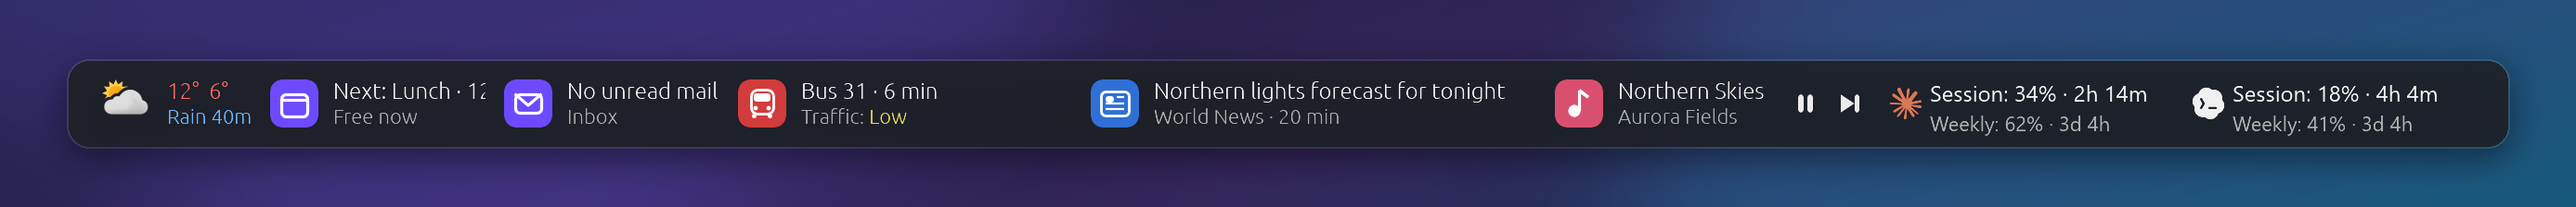
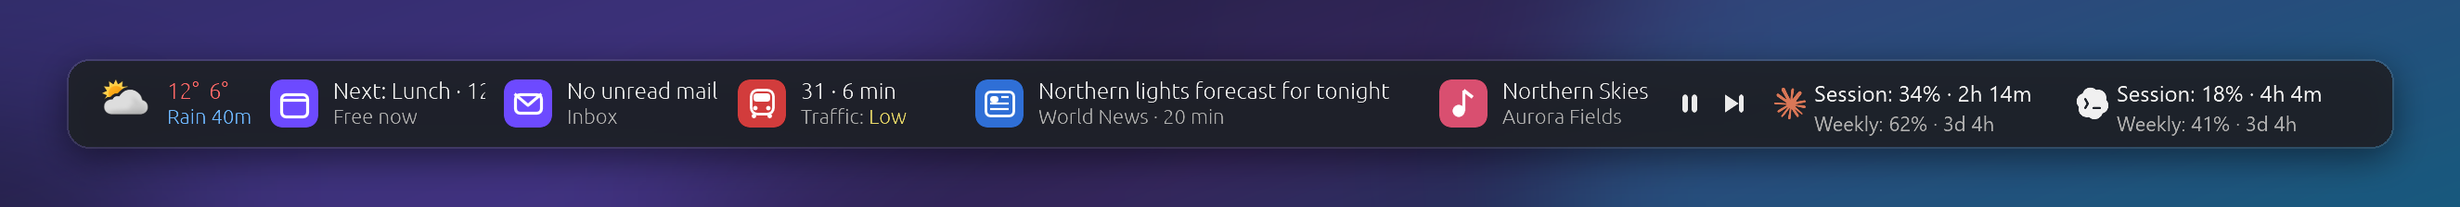
Next Departure: line and countdown only, compact fixed width
The tile shows the mode, so line one reads "31 · 6 min". The pill keeps
one width, room for "Traffic: Unknown"; longer text scrolls. The README
banner is regenerated.

Changed region(s): [[0.0309, 0.375, 0.9589, 0.6562]]

diff --git a/widgets/src/widgets/departures.rs b/widgets/src/widgets/departures.rs
@@ -24,7 +24,7 @@ use serde_json::{json, Value};
 
 use crate::config::{Config, DeparturesCfg, SharedConfig, Stop};
 use crate::icons::IconCache;
-use crate::widgets::calendar::two_lines;
+use crate::widgets::calendar::two_lines_fixed;
 use crate::widgets::{Update, Widget};
 
 const JOURNEY_PLANNER: &str = "https://api.entur.io/journey-planner/v3/graphql";
@@ -667,11 +667,33 @@ pub fn countdown(expected: DateTime<Utc>, now: DateTime<Utc>) -> String {
 }
 
 /// Line 1 for a departure, e.g. `Bus 31 · 6 min +3`.
+/// The pill's text width: room for its usual content, "Traffic: Unknown"
+/// under a two-digit countdown, so the pill keeps one size. Delays, long line
+/// names and notices scroll.
+fn text_width(ui: &egui::Ui) -> f32 {
+    let measure = |text: &str, size: f32| {
+        ui.ctx().fonts_mut(|f| {
+            f.layout_no_wrap(
+                text.into(),
+                egui::FontId::proportional(size),
+                egui::Color32::WHITE,
+            )
+            .size()
+            .x
+        })
+    };
+    measure("Traffic: Unknown", 11.0)
+        .max(measure("31 · 10 min", 12.0))
+        .ceil()
+}
+
+/// Line one of the pill, e.g. "31 · 6 min". The tile beside it shows the
+/// mode, so the mode is named only for a departure without a line number.
 pub fn headline(d: &Departure, now: DateTime<Utc>) -> String {
     let name = if d.line.is_empty() {
         d.mode.label().to_owned()
     } else {
-        format!("{} {}", d.mode.label(), d.line)
+        d.line.clone()
     };
     if d.cancelled {
         return format!("{name} · cancelled");
@@ -849,8 +871,9 @@ fn mode_tile(ui: &mut egui::Ui, mode: Option<Mode>) {
 }
 
 impl Widget for DeparturesWidget {
+    /// The minimum; the pill is as wide as its tile and `text_width`.
     fn size(&self) -> (f32, f32) {
-        (200.0, 48.0)
+        (48.0, 48.0)
     }
 
     fn refresh(&mut self) {
@@ -912,7 +935,7 @@ impl Widget for DeparturesWidget {
             if self.notice.is_none() && mode.is_some() {
                 let level = self.traffic();
                 ui.vertical(|ui| {
-                    ui.set_max_width(150.0);
+                    ui.set_width(text_width(ui));
                     ui.spacing_mut().item_spacing = egui::vec2(0.0, 1.0);
                     crate::widgets::marquee::line(
                         ui,
@@ -936,7 +959,7 @@ impl Widget for DeparturesWidget {
                     ui.add(egui::Label::new(job).truncate());
                 });
             } else {
-                two_lines(ui, &first, &second, 150.0);
+                two_lines_fixed(ui, &first, &second, text_width(ui));
             }
         });
     }
@@ -1101,14 +1124,17 @@ mod tests {
         d.line = "31".into();
         d.expected = now + chrono::Duration::seconds(6 * 60 + 20);
         d.aimed = d.expected;
-        assert_eq!(headline(&d, now), "Bus 31 · 6 min");
+        assert_eq!(headline(&d, now), "31 · 6 min");
         d.aimed = d.expected - chrono::Duration::minutes(3);
-        assert_eq!(headline(&d, now), "Bus 31 · 6 min +3");
+        assert_eq!(headline(&d, now), "31 · 6 min +3");
         d.expected = now + chrono::Duration::seconds(20);
         d.aimed = d.expected;
-        assert_eq!(headline(&d, now), "Bus 31 · now");
+        assert_eq!(headline(&d, now), "31 · now");
         d.cancelled = true;
-        assert_eq!(headline(&d, now), "Bus 31 · cancelled");
+        assert_eq!(headline(&d, now), "31 · cancelled");
+        // Without a line number the mode names the departure.
+        d.line.clear();
+        assert_eq!(headline(&d, now), "Bus · cancelled");
     }
 
     #[test]

diff --git a/widgets/src/main.rs b/widgets/src/main.rs
@@ -320,7 +320,8 @@ fn check(what: &str) -> i32 {
             );
             for d in board.departures.iter().take(8) {
                 out.push_str(&format!(
-                    "\n{} to {}{}",
+                    "\n{} {} to {}{}",
+                    d.mode.label(),
                     widgets::departures::headline(d, now),
                     d.destination,
                     if d.realtime { "" } else { " (timetable)" }

diff --git a/docs/departures.md b/docs/departures.md
@@ -3,15 +3,17 @@
 The next departure from a stop you choose, on two lines:
 
 ```
-Bus 31 · 6 min
+31 · 6 min
 Traffic: High
 ```
 
 The icon shows the transport mode of that departure: bus, tram, metro, train
-or boat. A stop served by several modes changes icon as the next departure
-changes. The countdown runs live between refreshes. A delay of two minutes or
-more is added after the countdown (`6 min +3`). A departure an hour or more
-away shows its clock time. Cancelled departures say so.
+or boat, so the text gives only the line. A stop served by several modes
+changes icon as the next departure changes. The countdown runs live between
+refreshes. A delay of two minutes or more is added after the countdown
+(`6 min +3`). A departure an hour or more away shows its clock time. Cancelled
+departures say so. The pill keeps one width; a longer line, such as one with a
+delay, scrolls.
 
 Off by default. Switch it on under **Widgets** in the dashboard.
 

diff --git a/CHANGELOG.md b/CHANGELOG.md
@@ -3,6 +3,14 @@
 Notable changes to BetterTaskbar. Versions follow
 [Semantic Versioning](https://semver.org/).
 
+## Unreleased
+
+### Changed
+
+- Next Departure shows just the line and countdown (`31 · 6 min`); the icon
+  already shows the mode. The pill is compact and keeps one width; longer
+  text scrolls.
+
 ## 1.1.0 - 2026-11-15
 
 ### Added
